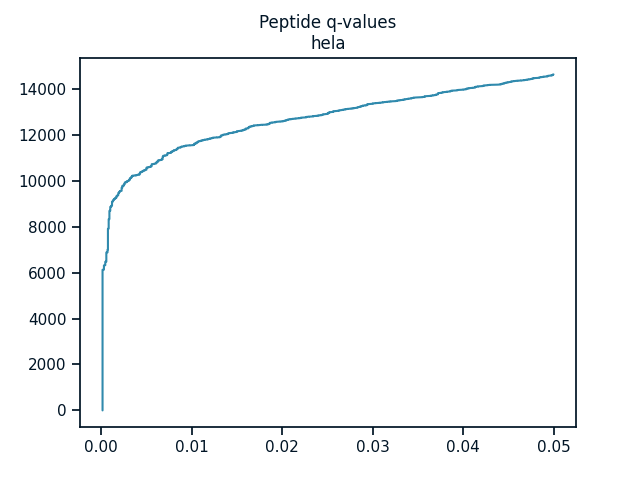
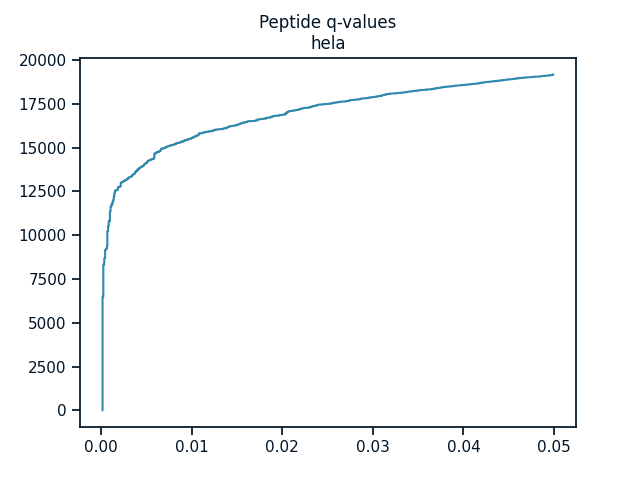
added precursor removal and minor change in scoring function

diff --git a/diadem/data_io/mzml.py b/diadem/data_io/mzml.py
@@ -642,6 +642,7 @@ class SpectrumStacker:
         self,
         precursor_window: dict[str, float],
         mz_range: None | tuple[float, float] = None,
+        remove_precursor_range: bool = True,
     ) -> dict[str : dict[str:NDArray]]:
         # TODO make this a more generic function
         # this is pretty much the same for timstof data but
@@ -655,17 +656,33 @@ class SpectrumStacker:
             )
             ms_data = datafile.filter(promise).sort("rt_values")
 
+            nested_cols = [
+                "mz_values",
+                "corrected_intensity_values",
+            ]
+            non_nested_cols = [
+                x for x in ms_data.head().collect().columns if x not in nested_cols
+            ]
             if mz_range is not None:
-                nested_cols = [
-                    "mz_values",
-                    "corrected_intensity_values",
-                ]
-                non_nested_cols = [
-                    x for x in ms_data.head().collect().columns if x not in nested_cols
-                ]
                 ms_data = (
                     ms_data.explode(nested_cols)
                     .filter(pl.col("mz_values").is_between(mz_range[0], mz_range[1]))
+                    .groupby(pl.col(non_nested_cols))
+                    .agg(nested_cols)
+                    .sort("rt_values")
+                )
+
+            if remove_precursor_range:
+                # Experimental, removes mz and intensity from the precursor range
+                ms_data = (
+                    ms_data.explode(nested_cols)
+                    .filter(
+                        (pl.col("mz_values") < precursor_window["quad_low_mz_values"])
+                        | (
+                            pl.col("mz_values")
+                            > precursor_window["quad_high_mz_values"]
+                        ),
+                    )
                     .groupby(pl.col(non_nested_cols))
                     .agg(nested_cols)
                     .sort("rt_values")

diff --git a/diadem/data_io/timstof.py b/diadem/data_io/timstof.py
@@ -485,15 +485,16 @@ class TimsSpectrumStacker(SpectrumStacker):
             )
             ms_data = datafile.filter(promise).sort("rt_values")
 
+            nested_cols = [
+                "mz_values",
+                "corrected_intensity_values",
+                "mobility_values",
+            ]
+            non_nested_cols = [
+                x for x in ms_data.head().collect().columns if x not in nested_cols
+            ]
+
             if mz_range is not None:
-                nested_cols = [
-                    "mz_values",
-                    "corrected_intensity_values",
-                    "mobility_values",
-                ]
-                non_nested_cols = [
-                    x for x in ms_data.head().collect().columns if x not in nested_cols
-                ]
                 ms_data = (
                     ms_data.explode(nested_cols)
                     .filter(pl.col("mz_values").is_between(mz_range[0], mz_range[1]))

diff --git a/diadem/search/diadem.py b/diadem/search/diadem.py
@@ -168,11 +168,15 @@ def search_group(  # noqa C901 `search_group` is too complex (18)
         index_log.append(last_id)
         fwhm_log.append(new_stack.ref_fwhm)
 
-        scoring_intensities = new_stack.trace_correlation()
+        # scoring_intensities = new_stack.trace_correlation()
         # scoring_intensities = new_stack.center_intensities
         # scoring_intensities = (
         #     new_stack.center_intensities * new_stack.trace_correlation()
         # )
+        testcoef = np.log1p((-new_stack.trace_correlation()).argsort().argsort()) + 1
+        # >>> np.log1p((-np.array([3,2,1])).argsort().argsort()) + 1
+        # array([1.        , 1.69314718, 2.09861229])
+        scoring_intensities = np.log1p(new_stack.center_intensities) / testcoef
 
         if new_stack.ref_fwhm >= 2:
             scores = db.hyperscore(
